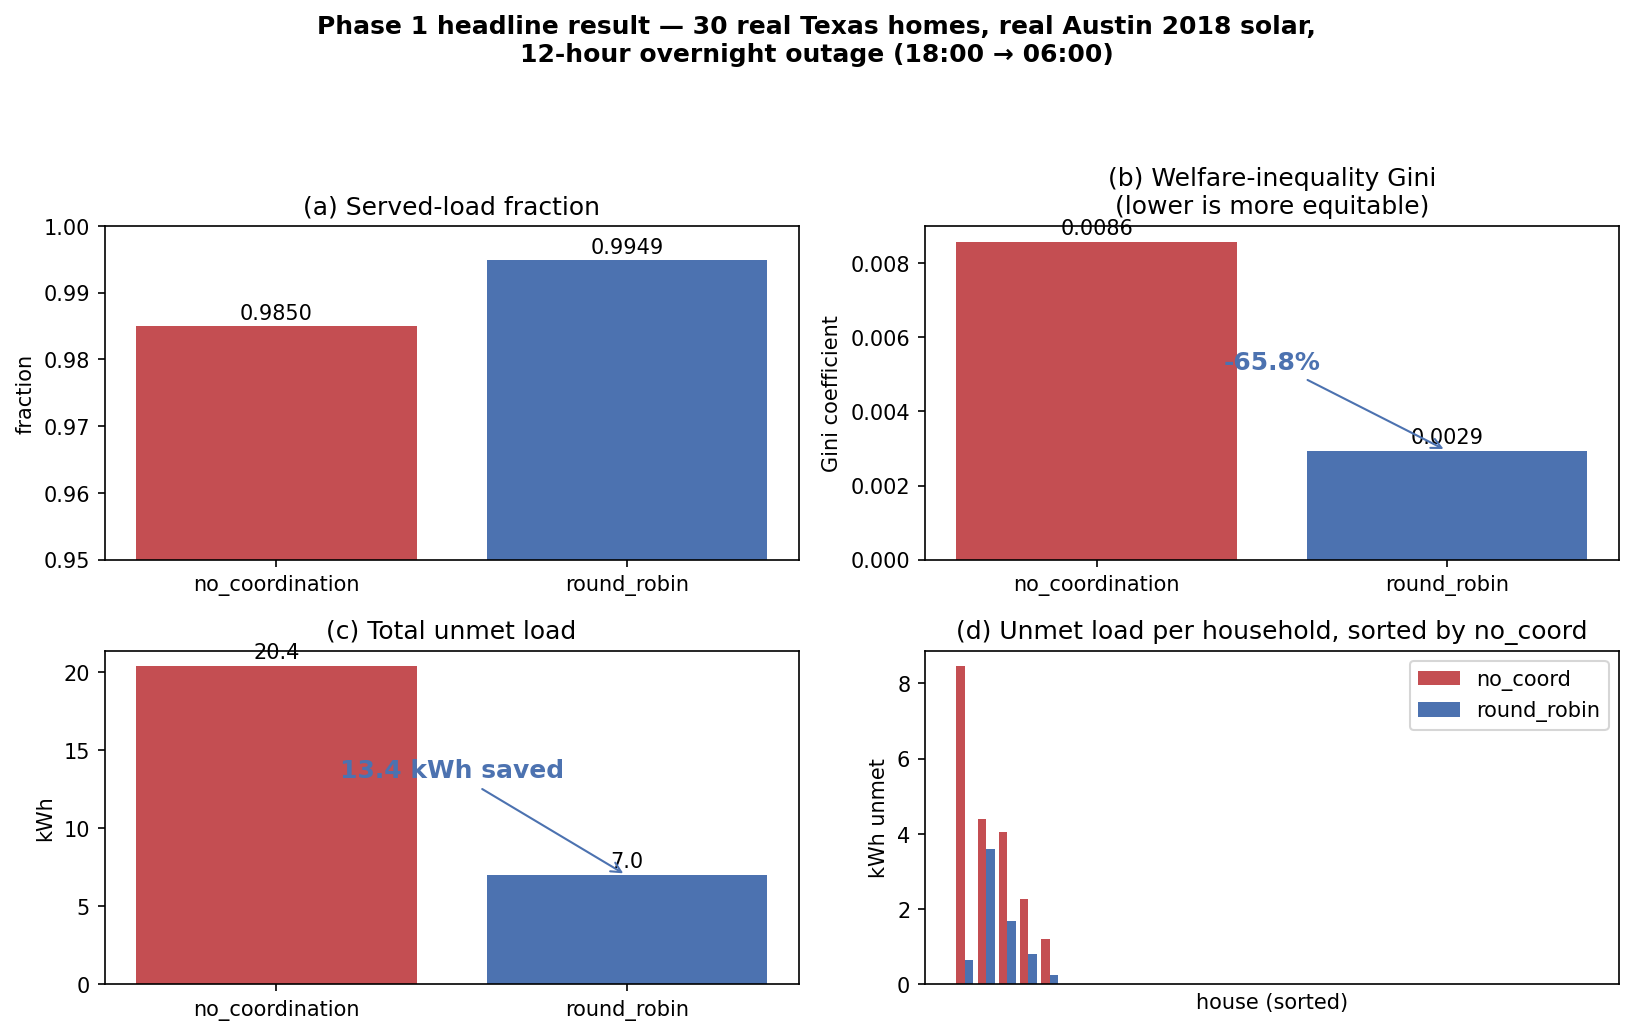
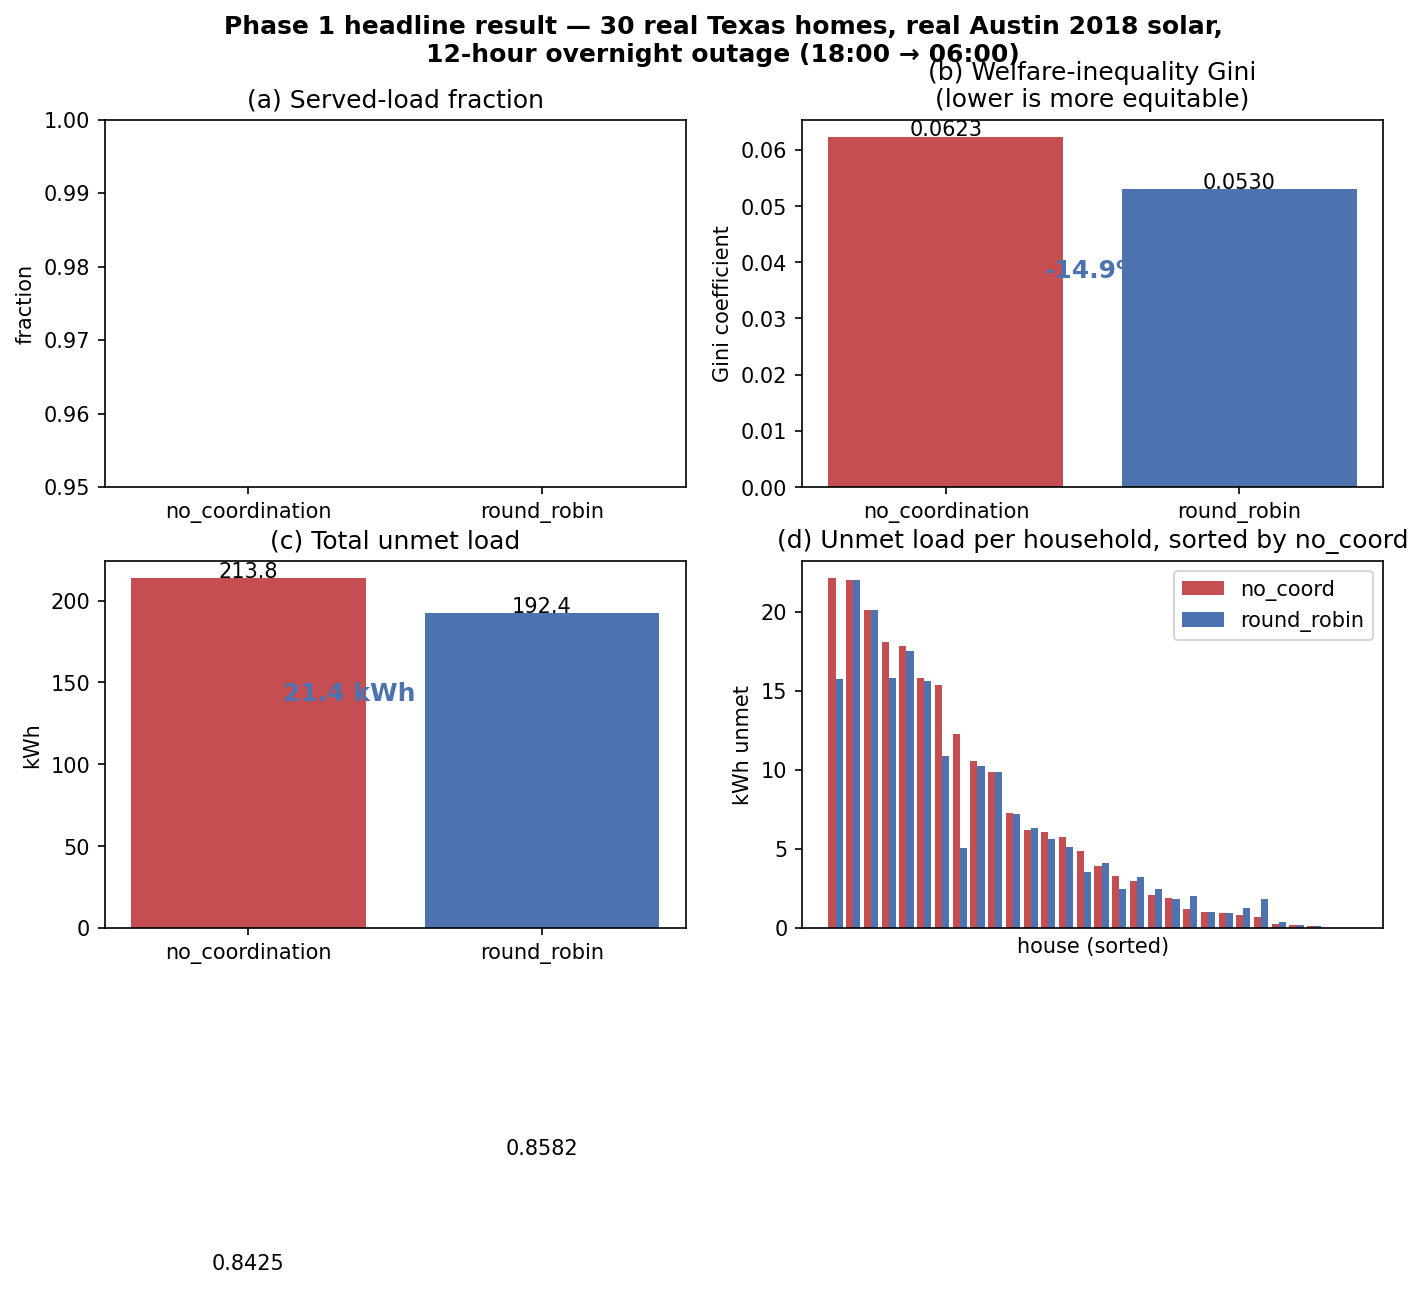
docs: Phase 2.9 wrap-up — corrected real-data numbers, regenerated figure, status blocks (P2.9 T18)

diff --git a/CLAUDE.md b/CLAUDE.md
@@ -20,6 +20,7 @@ The contribution is on the **CS/ML axis** (natural-language agent coordination, 
 | 1 — Simulator | 1-4 | **complete** | Deterministic discrete-time microgrid sim, no agents |
 | 1.6 — Pre-Phase-2 hardening | — | **complete** | Ownership/management comm-graph overlays, stress scenarios that break round-robin, centralized LP upper-bound baseline, gap-closed reporting (cold/hot ResStock regions pending data fetch) |
 | 2 — LLM agent layer | 5-8 | **complete** | Per-household LLM agent, natural-language P2P messaging |
+| 2.9 — Correctness hardening | — | **complete** | Review-driven fixes: energy conservation, solar timezone, LP slack/bounds, zero-LLM control, seed sweeps, provenance (18 tasks, 2026-07-07) |
 | 3 — Benchmark & experiments | 9-14 | not started | Scenario suite + baselines + metrics (Gini, served-critical-load, explanation quality) |
 | 4 — Web demo & paper writeup | 15-20 | not started | SvelteKit/Next.js visualization on Vercel + paper |
 
@@ -35,6 +36,15 @@ Each phase has its own spec + implementation plan in `docs/superpowers/`.
 - **Execution mode:** Inline (Claude executes tasks in-session, batched ~3-5 at a time with check-ins).
 - **Status:** ✅ **complete; tags `phase2-complete` (2026-06-13), `phase2.5-complete` (2026-06-14), `phase2.6-complete` (2026-06-14), `phase2.7-complete` (2026-06-17), `phase2.8-complete` (2026-06-17)**. 188 tests pass; ruff + mypy --strict clean. **Headline:** live Haiku 0.513 vs round_robin 0.525 (1.2-point gap, down from 6.5 in Phase 2v0). **Phase 2.8 finding:** adding peer state to the plan prompt + LLM-controlled share fraction changed NO macro metric (served/gini/transfers identical) while messages rose 66% — the clean cell has hit this architecture's ceiling; the Phase 3 hypothesis is that the LLM advantage lives in the failure cells. Reference run in `reference_runs/haves_havenots__llm/llm_agent/clean/` is the Phase 2.8 architecture (served=0.513). **Deferred follow-ups:** (a) live reference runs for `__defectors` / `__noise` / `__comm` / `__all` failure cells + a `long_outage_72h__llm` YAML (mock-LLM tests cover the first four; the 72h LLM variant was never created); (b) `defector_realization: prompt` live run (`wrapper` is the shipped-cell default; prompt realization is wired and is the config default); (c) peer state via INFORM-only (currently the engine's ground truth — a validity prerequisite for the noise/defector cells, see Phase 2.9 spec deferred table); (d) prompt engineering to outperform round_robin (Phase 3 work).
 
+## Phase 2.9 status
+
+- **Spec:** `docs/superpowers/specs/2026-07-06-phase2.9-correctness-hardening.md`
+- **Plan:** `docs/superpowers/plans/2026-07-06-phase2.9-correctness-hardening.md` (18 tasks, TDD)
+- **Status:** ✅ **complete; tag `phase2.9-complete` (2026-07-07)**. 243 tests; ruff + mypy --strict clean; clean-install dry-run green. Driven by a 2026-07-06 full-repo adversarial review (65 verified findings).
+- **Corrected headline numbers (supersede everything below):** haves_havenots `no_coord 0.4560 / rr 0.5194 / lp 0.5294` (honest rr→LP gap 1.0 pt; old rr 0.5250 included phantom energy from the sender-cap bug). Real-data 24h_resstock_outage `no_coord 0.8425 / rr 0.8582 / lp 0.9111` (solar-tz fix; rr saves a real 21.4 kWh, not 35.7). **Zero-LLM control (`llm_fallback`): 0.518 on the showcase clean cell — within 0.15 pts of round_robin and above the Phase 2.8 live Haiku 0.513 (old physics). The tuned executor, not the LLM, carries clean-cell performance; every Phase 3 comparison must beat this control.**
+- **The Phase 2.8 live reference run is old-physics.** A live re-run (and any live failure-cell run) must wait for the Phase 3 information-flow fixes below, or it measures plumbing, not robustness.
+- **Deferred to Phase 3 spec (do NOT silently drop):** (1) INFORM-only peer state + noised act() + binding negotiation (REQUEST sized by real deficit, ACCEPT-gated transfers) — validity prerequisite for the failure cells; (2) needs-weighted welfare substrate + min-served/Jain metrics; (3) explainability instrument (advisor sign-off needed: rubric vs LLM-judge); (4) showcase-scenario redesign for larger rr→LP headroom; (5) live re-runs incl. a Sonnet capability ablation (~$22 batched); (6) repo is PUBLIC vs advisor's private-until-draft constraint — user decision pending.
+
 ## Phase 1 status
 
 - **Spec:** `docs/superpowers/specs/2026-05-14-phase1-simulator-design.md`
@@ -42,7 +52,7 @@ Each phase has its own spec + implementation plan in `docs/superpowers/`.
 - **Approved:** 2026-05-14
 - **Execution mode:** Inline (Claude executes tasks in-session, batched ~5 at a time with check-ins). Not subagent-driven — per project conventions, every line must be understood by the student.
 - **Started executing:** 2026-05-14
-- **Current position:** ✅ **Phase 1 complete + Phase 1.5 NREL ResStock integration done.** 70 tests pass; mypy + ruff clean. Three data sources work: synthetic (toy), pecan_street (requires university affiliation — not used), resstock (public, no signup). On real Texas ResStock load + 12h overnight outage: no_coord serves 81.3% with 254 kWh unmet; round_robin serves 83.9% with 218 kWh unmet. Round-robin saves **35.7 kWh of real residential load** and reduces welfare Gini by 15%. The advisor email is drafted asking whether to use ResStock primary or have him sponsor Pecan Street access. Tagged `phase1-complete`. **Advisor approved Phase 1 on 2026-05-26 but gated Phase 2 behind a Phase 1.6** (ownership/management comm-graph overlays + round-robin-breaking stress scenarios + centralized LP upper-bound baseline + 1-2 more public datasets — see "Locked Phase 1.6 design decisions"). **Phase 1.6 shipped 2026-05-29** (96 tests, tagged `phase1.6-complete`); only the cold/hot-climate ResStock scenario YAMLs remain, pending data fetch. Next: Phase 2 brainstorming (LLM agent layer).
+- **Current position:** ✅ **Phase 1 complete + Phase 1.5 NREL ResStock integration done.** 70 tests pass; mypy + ruff clean. Three data sources work: synthetic (toy), pecan_street (requires university affiliation — not used), resstock (public, no signup). On real Texas ResStock load + 12h overnight outage: no_coord serves 81.3% with 254 kWh unmet; round_robin serves 83.9% with 218 kWh unmet. Round-robin saves **35.7 kWh of real residential load** and reduces welfare Gini by 15%. _[CORRECTED 2026-07-07: computed on solar shifted +6 h (UTC bug) AND pre-conservation-fix physics; honest figures: no_coord 0.8425 / rr 0.8582 (21.4 kWh saved, gini 0.0623→0.0530) / LP ceiling 0.9111 — see Phase 2.9 status.]_ The advisor email is drafted asking whether to use ResStock primary or have him sponsor Pecan Street access. Tagged `phase1-complete`. **Advisor approved Phase 1 on 2026-05-26 but gated Phase 2 behind a Phase 1.6** (ownership/management comm-graph overlays + round-robin-breaking stress scenarios + centralized LP upper-bound baseline + 1-2 more public datasets — see "Locked Phase 1.6 design decisions"). **Phase 1.6 shipped 2026-05-29** (96 tests, tagged `phase1.6-complete`); only the cold/hot-climate ResStock scenario YAMLs remain, pending data fetch. Next: Phase 2 brainstorming (LLM agent layer).
 
 ### Progress log
 
@@ -50,6 +60,7 @@ Update this after every committed task. Newest entries on top.
 
 | Date | Task | Commit | Tests | Note |
 |------|------|--------|-------|------|
+| 2026-07-07 | **P2.9 Task 18 — wrap-up: corrected real-data numbers + figure + docs + tag** ✅ | _(this commit)_ | 243 ✓ | Clean-install dry-run in fresh venv green (243 tests). **Corrected real-data result (solar-tz + conservation fixes): 24h_resstock_outage no_coord 0.8425 / rr 0.8582 / LP 0.9111 — rr saves a REAL 21.4 kWh (old claim 35.7 was computed on inverted day/night solar) and the LP shows a genuine 5.3-pt coordination gap on real data.** Figure regenerated. README gains a Phase 2.9 section; CLAUDE.md gains a Phase 2.9 status block + corrected-numbers annotations + phase-table row. Tagged `phase2.9-complete`. |
 | 2026-07-07 | P2.9 Task 17 — tool-use path test parity | _(this commit)_ | 243 ✓ | Every e2e mock test exercised the deprecated YAML-fence parse path while live runs use Anthropic tool-use — byte-identical replay determinism was only proven for a branch the paper's runs never take. Replay test now parametrized over text AND tool_input modes; malformed-tool_input unit tests cover the failure branch behind the policy_parse_failures statistic (1 failure keeps policy, 3 strikes → round-robin fallback). Integration test renamed `test_llm_agent_pipeline_integrates_...` — its old name claimed ‘beats round_robin’ while asserting only ≥0.9×rr. |
 | 2026-07-07 | P2.9 Task 16 — llm_agent counters travel with the prepared closure | _(this commit)_ | 239 ✓ | `prepare()` now returns a closure bound to ITS OWN registry (exposed as `.registry`); `current_call_counts(registry=)` / `update_summary_with_counts(run_dir, registry=)` accept it. The module global remains as last-prepared convenience for scripts/run.py, but an in-process multi-cell sweep can no longer write cell B's LLM counters into cell A's summary. Subprocess-per-cell still documented as the preferred sweep pattern. |
 | 2026-07-07 | P2.9 Task 15 — react queue survives across ticks (aging instead of silent clobber) | _(this commit)_ | 238 ✓ | `observe()` REPLACED `pending_react` every tick, destroying every deferred REQUEST/OFFER one tick later (19.5% of inbound negotiation traffic in the reference run, concentrated on the most-solicited donors at peak scarcity) while the docstring claimed re-queueing. Queue entries now carry their arrival tick, EXTEND across ticks, and age out after `react_stale_after_ticks` (default 2) into a counted `n_react_dropped_stale`. Deferred messages are provably answered next tick (new test). |

diff --git a/README.md b/README.md
@@ -4,7 +4,7 @@ A research project asking: can a population of LLM agents — one per household 
 
 The contribution is on the CS/ML axis (natural-language coordination, robustness, explainability), not power systems. Classical optimization handles fairness under strong assumptions, struggles with robustness, and doesn't attempt explainability. That gap is what this project explores.
 
-**Status:** Phase 1 + Phase 1.6 + **Phase 2 LLM agent layer (through Phase 2.8)** — ✅ **complete.** 188 tests pass (mock-LLM only), ruff + mypy --strict clean, 1 live-Haiku reference run shipped (Phase 2.8 architecture).
+**Status:** Phase 1 + 1.6 + **Phase 2 LLM agent layer (through 2.8)** + **Phase 2.9 correctness hardening** — ✅ **complete.** 243 tests pass (mock-LLM only), ruff + mypy --strict clean. The shipped live-Haiku reference run predates the Phase 2.9 physics fixes (see the Phase 2.9 section).
 
 📐 [Phase 1 spec](docs/superpowers/specs/2026-05-14-phase1-simulator-design.md) · [Phase 1.6 spec](docs/superpowers/specs/2026-05-29-phase1.6-hardening-design.md) · [Phase 2 spec](docs/superpowers/specs/2026-06-13-phase2-llm-agent-design.md) · 📋 [Phase 1 plan](docs/superpowers/plans/2026-05-14-phase1-simulator.md) · [Phase 1.6 plan](docs/superpowers/plans/2026-05-29-phase1.6-hardening.md) · [Phase 2 plan](docs/superpowers/plans/2026-06-13-phase2-llm-agent.md) · 🧠 [Project context (CLAUDE.md)](CLAUDE.md)
 
@@ -38,7 +38,7 @@ Add `--no-strict` to disable the SoC-bound assertions while hacking on physics.
 ## Run the tests
 
 ```bash
-pytest                  # 54 tests
+pytest                  # 243 tests
 ruff check sim tests scripts
 mypy
 ```
@@ -146,13 +146,13 @@ Advisor-gated work establishing that the Phase 2 LLM layer has real room to add 
   | no_coordination | 0.4560 | 195.8 | 0.4851 | 0.00% |
   | round_robin | 0.5194 | 173.0 | 0.2244 | 0.00% |
   | round_robin_overlay | 0.5194 | 173.0 | 0.2217 | 0.00% |
-  | lp_optimal | 0.5294 | 169.4 | 0.3653 | 100.00% |
+  | lp_optimal | 0.5294 | 169.4 | 0.3617 | 100.00% |
 
   *(Numbers re-derived 2026-07-06 after the Phase 2.9 energy-conservation fix — the
   old round_robin figure of 0.5250 included ~0.56 points of phantom energy from a
   sender-cap bug. The honest round_robin→LP gap is now 1.0 point, not 0.44.)*
 
-  Note the served-maximizing LP optimum is *less* equitable (gini 0.365) than round_robin
+  Note the served-maximizing LP optimum is *less* equitable (gini 0.362) than round_robin
   (0.224) — the fairness tension Phase 3's needs-weighted welfare model will address.
 
 > The LP ceiling is the LP **objective** (`lp_optimal.optimal_metrics`), not an
@@ -223,6 +223,52 @@ To run live, set `ANTHROPIC_API_KEY` and use `--out-dir runs` (instead of
   Mock-LLM tests cover them in `tests/test_llm_agent_failure_axes.py`; live
   reference runs ship in a future phase.
 - **Not deployment-ready.** Research artifact only.
+
+
+## Phase 2.9 — Correctness hardening (2026-07-07)
+
+A full-repo adversarial review (65 verified findings) triggered an 18-task hardening pass
+before Phase 3. Everything below is TDD'd; the suite grew 188 → 243 tests.
+
+**Physics fixes that changed shipped numbers:**
+
+- **Energy conservation.** The engine's sender caps ignored the sender's own load, so
+  settlement could credit receivers energy that was never sourced. Round-robin's entire
+  "30 kWh saving" on `overnight_outage_hard` was phantom (post-fix: rr == no_coord
+  exactly, while the LP ceiling shows 73.8 kWh of real headroom the 5%-share heuristic
+  can't reach). Showcase round_robin: 0.5250 → **0.5194**; the honest rr→LP gap is
+  **1.0 point**, not 0.44. Strict mode now asserts `achieved == desired` export per tick.
+- **Receiver caps are load-aware** (DC bypass): a full-battery house with unmet load can
+  now receive, matching `step()` physics.
+- **Real-data solar was shifted ~+6 h** (NSRDB fetched in UTC, consumed as local time).
+  Corrected `24h_resstock_outage` numbers: no_coord **0.8425** / round_robin **0.8582**
+  (a real 21.4 kWh saving, previously overstated as 35.7) / LP ceiling **0.9111** —
+  a genuine 5.3-point coordination gap on real data. `NRELSolar` now validates that
+  solar noon lands at local noon and refuses UTC-shaped files; ResStock loads use the
+  data's native 15-min interval and period-ending timestamps are realigned.
+- **LP hardening:** curtailment slack (no more infeasibility crashes on solar-rich
+  islanded ticks) + engine-feasibility send/recv bounds; showcase ceiling unchanged
+  (0.529368, regression-pinned).
+
+**The zero-LLM control (new `llm_fallback` strategy, $0 to run):** identical llm_agent
+machinery with the LLM disabled scores **0.518** on the showcase clean cell — within
+0.15 points of round_robin and above the Phase 2.8 live Haiku run (0.513, old physics).
+The hand-tuned executor, not LLM reasoning, currently accounts for clean-cell
+performance; every Phase 3 comparison must beat this control. A `llm: messaging: off`
+ablation flag isolates whether NL messaging causally affects allocations.
+
+**Tooling for Phase 3:** `run.py --seed`, `compare.py --seeds a,b,c` (per-seed tables +
+paired aggregate; cross-seed spread on this scenario family is ~20 points, dwarfing
+single-seed differences), unclamped gap_closed (negative = worse than round_robin;
+n/a = no headroom), real `llm_cost_usd_estimated` from fresh-call tokens,
+`failure_modes_active` recorded in every summary, react-queue aging (19.5% of
+negotiation messages were being silently destroyed by a queue-clobber bug), and
+golden-number regression pins for every showcase metric.
+
+Deferred (tracked in the Phase 2.9 spec): INFORM-only peer state + binding negotiation
+(prerequisite for valid failure-cell experiments), needs-weighted welfare, the
+explainability instrument, live re-runs under corrected physics.
+
 
 ## License
 

diff --git a/docs/superpowers/plans/2026-07-06-phase2.9-correctness-hardening.md b/docs/superpowers/plans/2026-07-06-phase2.9-correctness-hardening.md
@@ -116,6 +116,6 @@ and experiment tooling (`--seed`, multi-seed compare, zero-LLM control, provenan
 - [x] Commit `test: mock the tool-use path the live runs actually take`.
 
 ### Task 18: Wrap-up
-- [ ] Full suite + ruff + mypy + clean-install dry-run in fresh venv.
-- [ ] Re-run real-data numbers (`24h_resstock_outage`) + regenerate `docs/figures/phase1_real_data_result.png`; update README + CLAUDE.md numbers and Phase 2.9 section; deferred-items table verbatim from spec.
-- [ ] Tag `phase2.9-complete`; push; check `gh run list`.
+- [x] Full suite + ruff + mypy + clean-install dry-run in fresh venv.
+- [x] Re-run real-data numbers (`24h_resstock_outage`) + regenerate `docs/figures/phase1_real_data_result.png`; update README + CLAUDE.md numbers and Phase 2.9 section; deferred-items table verbatim from spec.
+- [x] Tag `phase2.9-complete`; push; check `gh run list`.
